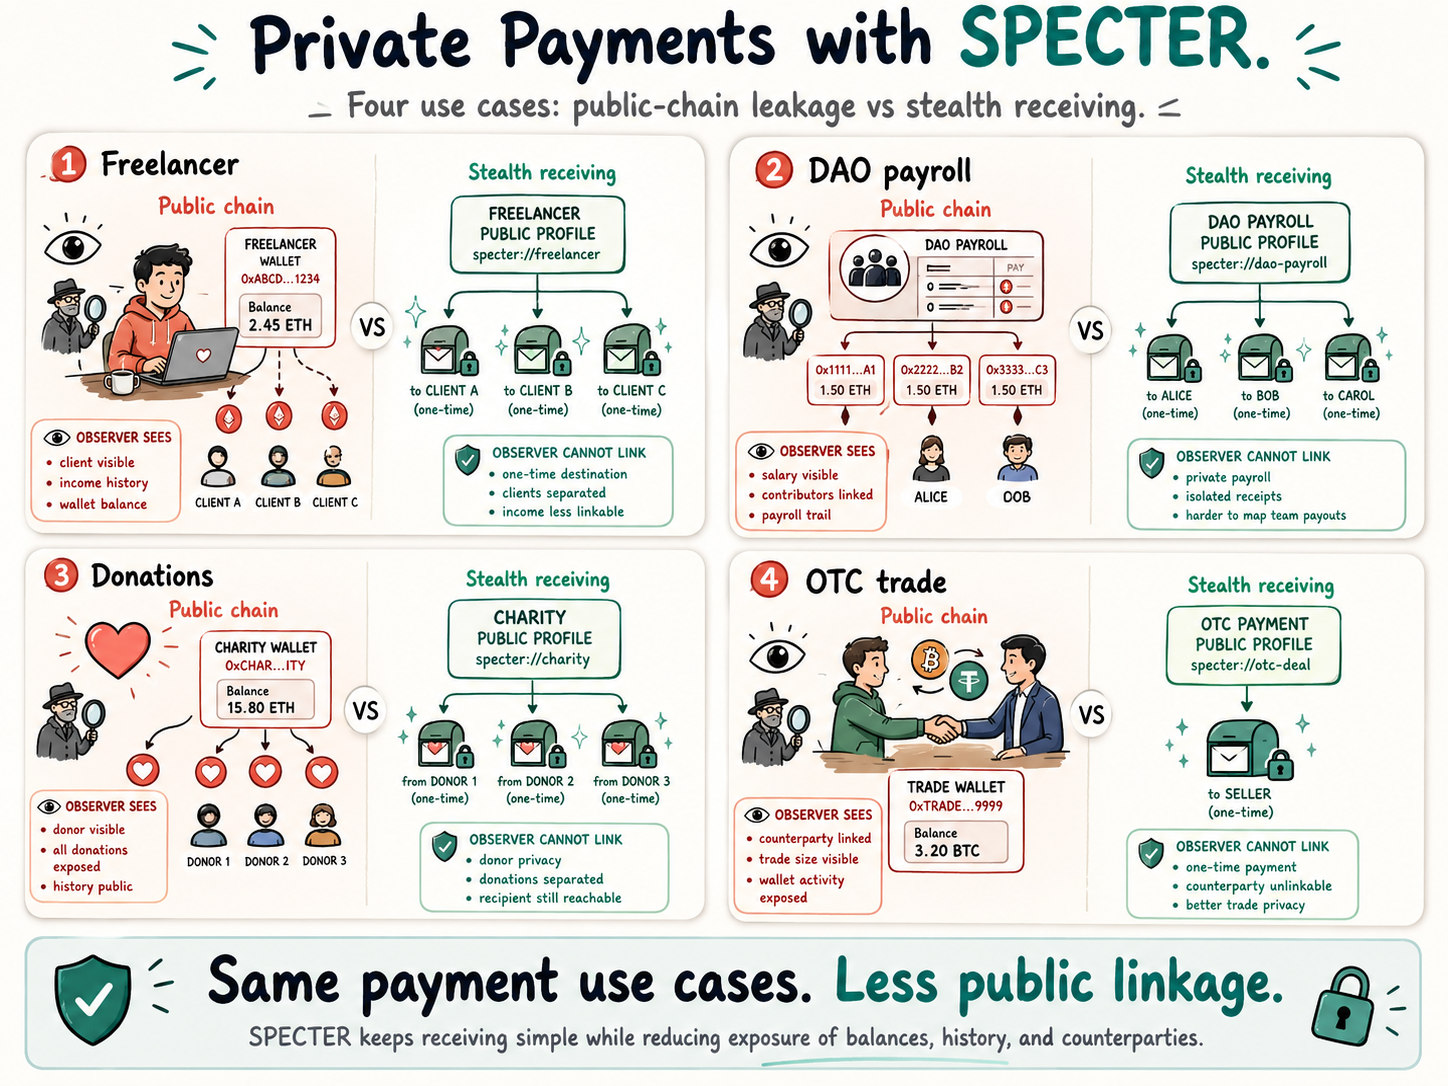
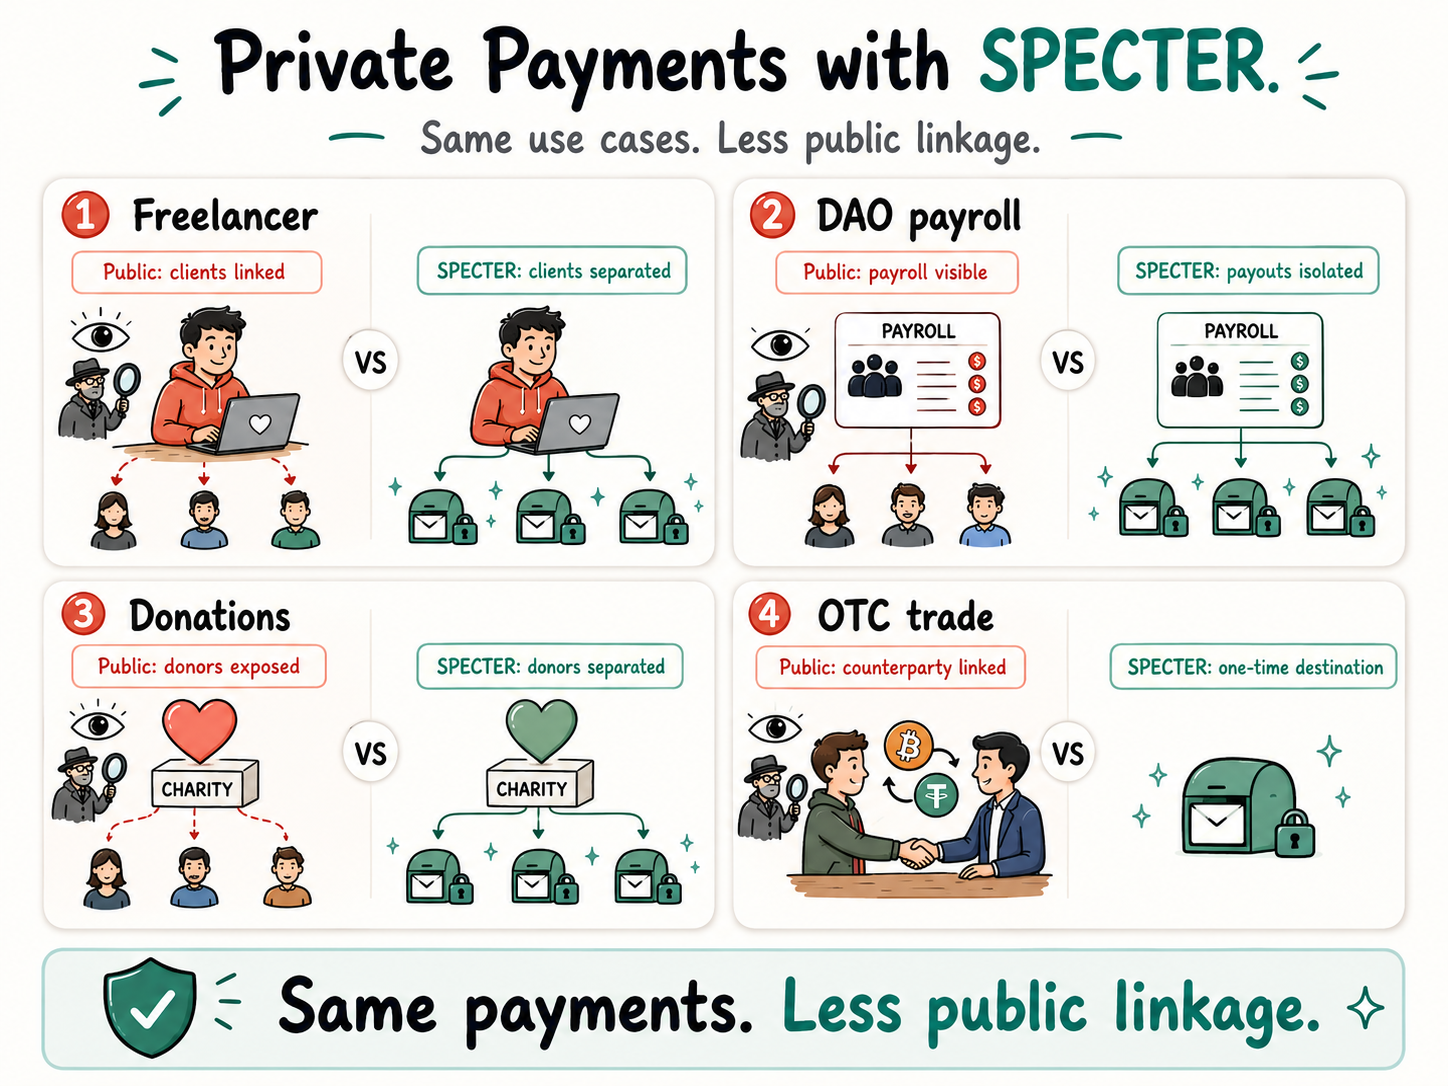
Updated mermaids, made them zoomable, added images

diff --git a/src/css/custom.css b/src/css/custom.css
@@ -238,6 +238,25 @@ body {
   margin-right: auto;
 }
 
+/* Wide diagrams that otherwise render small with lots of whitespace. The
+   mermaid runtime sets an inline max-width on the SVG, capping it well below
+   the content column; we override it so the SVG fills the available width
+   while staying contained inside the article (never under the sidebars). */
+.diagramWide {
+  width: 100%;
+}
+
+.diagramWide .docusaurus-mermaid-container {
+  width: 100%;
+}
+
+.diagramWide .docusaurus-mermaid-container > svg,
+.diagramWide svg {
+  width: 100% !important;
+  max-width: 100% !important;
+  height: auto;
+}
+
 .markdown iframe {
   max-width: 100%;
 }